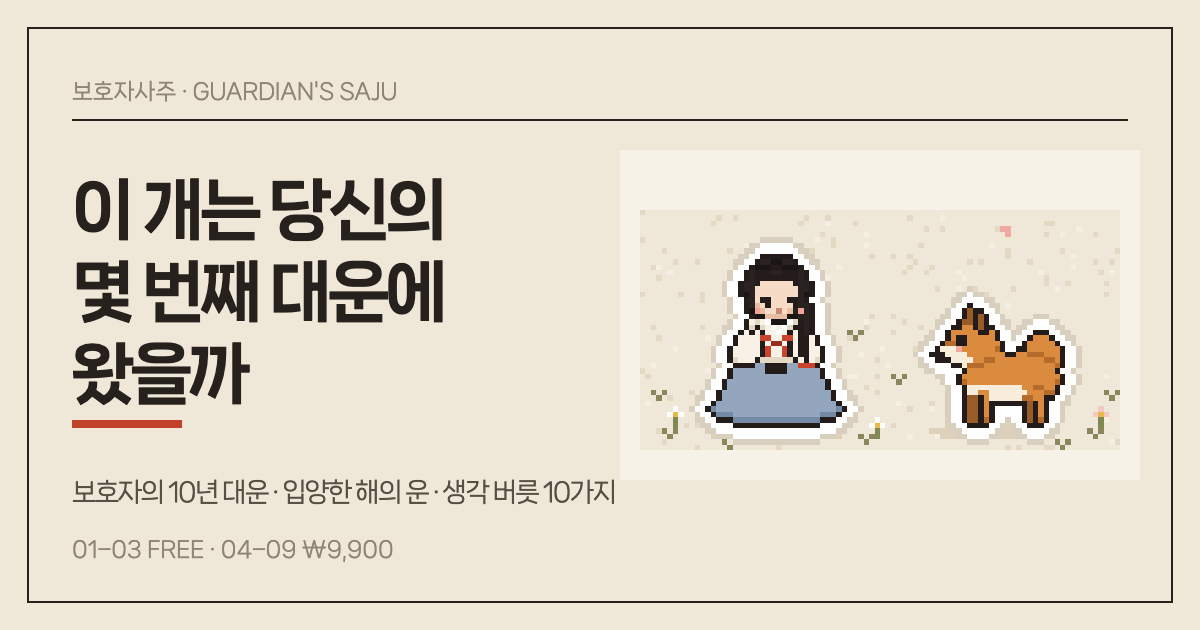
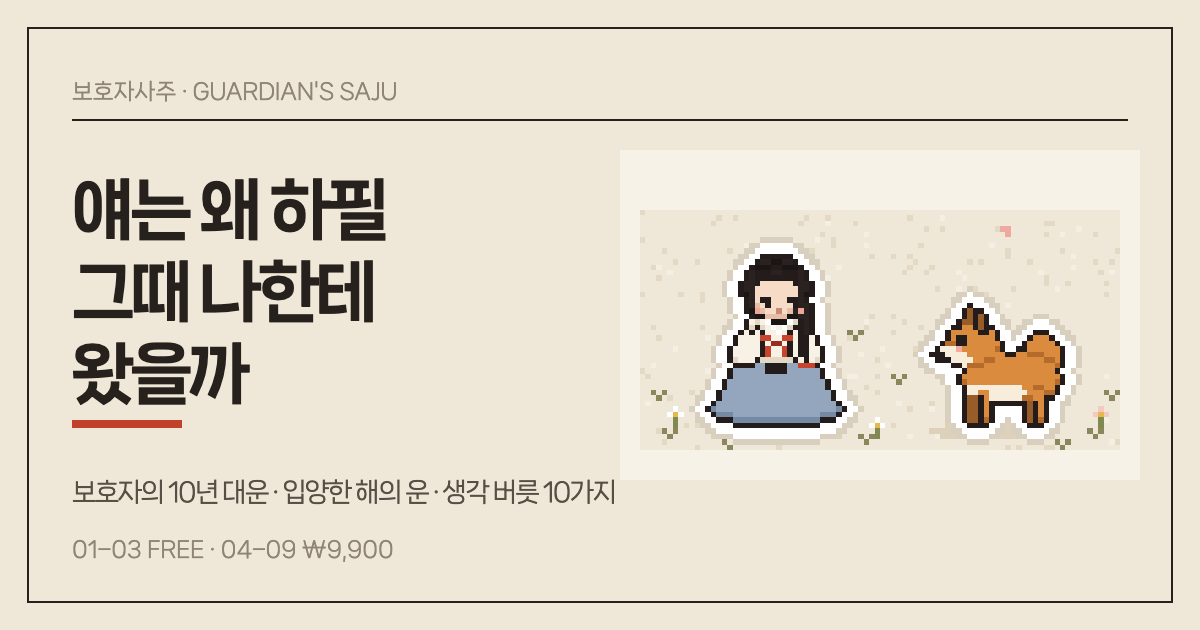
사이트 문구의 '개'를 '강아지'로

Changed region(s): [[0.0617, 0.2714, 0.37, 0.5127]]

diff --git a/src/content/distortions.ts b/src/content/distortions.ts
@@ -37,8 +37,8 @@ export const DIST: Record<DistId, DistContent> = {
     ],
     costs: ['시작을 계속 미룸', '갑자기 손절', '폭식 후 포기'],
     dog: [
-      '완벽한 산책 같은 건 없음. 10분만 나가도 개는 똑같이 신나 함.',
-      '개는 오늘 사고 친 걸 내일까지 안 들고 옴. 자고 일어나면 리셋.',
+      '완벽한 산책 같은 건 없음. 10분만 나가도 강아지는 똑같이 신나 함.',
+      '강아지는 오늘 사고 친 걸 내일까지 안 들고 옴. 자고 일어나면 리셋.',
     ],
     reframe: [
       { from: '망했다', to: '70%는 했음. 나머진 내일' },
@@ -63,12 +63,12 @@ export const DIST: Record<DistId, DistContent> = {
     scenes: [
       { at: '친구 · 단톡방', line: '약속 한 번 취소됨 → "나는 늘 우선순위 밖"' },
       { at: '회사 · 세 번째 직장', line: '"여기도 똑같네. 어딜 가도 똑같아"' },
-      { at: '산책 · 동네 공원', line: '다른 개가 한 번 짖음 → "우리 애는 원래 사회성이 없어"' },
+      { at: '산책 · 동네 공원', line: '다른 강아지가 한 번 짖음 → "우리 애는 원래 사회성이 없어"' },
     ],
     costs: ['해보기도 전에 포기', '먼저 선 긋기', '말한 대로 됨'],
     dog: [
-      '어제 자기 보고 짖은 애한테도 개는 오늘 또 냄새 맡으러 감.',
-      '매일 가는 산책길인데도 처음 온 것처럼 킁킁댐. 개한테 "맨날"은 없음.',
+      '어제 자기 보고 짖은 애한테도 강아지는 오늘 또 냄새 맡으러 감.',
+      '매일 가는 산책길인데도 처음 온 것처럼 킁킁댐. 강아지한테 "맨날"은 없음.',
     ],
     reframe: [
       { from: '난 맨날 이래', to: '이번에 그랬음. 저번까지 쳐도 두 번임' },
@@ -96,8 +96,8 @@ export const DIST: Record<DistId, DistContent> = {
     ],
     costs: ['새벽까지 곱씹기', '뭘 해도 뿌듯하지 않음', '무한 반복 재생'],
     dog: [
-      '개는 하루 중 제일 좋았던 순간만 기억하는 것 같음. 현관에서 맨날 그 얼굴로 반김.',
-      '비 쫄딱 맞은 산책도 개한테는 그냥 "산책 간 날".',
+      '강아지는 하루 중 제일 좋았던 순간만 기억하는 것 같음. 현관에서 맨날 그 얼굴로 반김.',
+      '비 쫄딱 맞은 산책도 강아지한테는 그냥 "산책 간 날".',
     ],
     reframe: [
       { from: '근데 이건 별로래', to: '좋다고 한 건 몇 개였더라. 세어 보기' },
@@ -125,8 +125,8 @@ export const DIST: Record<DistId, DistContent> = {
     ],
     costs: ['번아웃', '자존감 바닥', '기회 남한테 넘김'],
     dog: [
-      '개 털 윤기 나는 거 운 아님. 매일 밥 챙긴 사람이 있어서임.',
-      '개는 칭찬 들으면 그냥 꼬리 흔듦. "아 아니에요" 같은 거 안 함.',
+      '강아지 털 윤기 나는 거 운 아님. 매일 밥 챙긴 사람이 있어서임.',
+      '강아지는 칭찬 들으면 그냥 꼬리 흔듦. "아 아니에요" 같은 거 안 함.',
     ],
     reframe: [
       { from: '운빨이었어', to: '운도 있었고 내가 준비한 것도 있었음' },
@@ -150,12 +150,12 @@ export const DIST: Record<DistId, DistContent> = {
     scenes: [
       { at: '연애 · 밤 11시', line: '답장 2시간 없음 → 이별 대화 시뮬레이션 완료' },
       { at: '회사 · 주간 회의', line: '팀장 한숨 → "내 보고서 때문이다"' },
-      { at: '집 · 개가 밥을 남긴 날', line: '새벽 2시에 24시 병원 검색. 다음 날 멀쩡' },
+      { at: '집 · 강아지가 밥을 남긴 날', line: '새벽 2시에 24시 병원 검색. 다음 날 멀쩡' },
     ],
     costs: ['일 터지기 전에 이미 지침', '먼저 거리 둠', '끝까지 안 물어봄'],
     dog: [
-      '개도 내 표정은 읽음. 근데 결론은 안 냄. 일단 와서 냄새부터 맡음.',
-      '개는 내일 산책 못 갈까 봐 걱정 안 함. 그냥 오늘 문 앞에 서 있음.',
+      '강아지도 내 표정은 읽음. 근데 결론은 안 냄. 일단 와서 냄새부터 맡음.',
+      '강아지는 내일 산책 못 갈까 봐 걱정 안 함. 그냥 오늘 문 앞에 서 있음.',
     ],
     reframe: [
       { from: '화났구나', to: '바쁜가 보다. 물어보면 안다' },
@@ -179,12 +179,12 @@ export const DIST: Record<DistId, DistContent> = {
     scenes: [
       { at: '회사 · 메일 보낸 직후', line: '첨부파일 빠짐 → 재발송 3분, 자책 3일' },
       { at: '가족 · 명절', line: '친척 한마디가 한 해를 통째로 덮음' },
-      { at: '산책 · 공원', line: '개가 한 번 으르렁 → "우리 애 공격성 있는 거 아냐?"' },
+      { at: '산책 · 공원', line: '강아지가 한 번 으르렁 → "우리 애 공격성 있는 거 아냐?"' },
     ],
     costs: ['감정 소모', '사과를 너무 많이 함', '내가 한 일 지움'],
     dog: [
-      '개는 사고 쳐도 30초면 다음 일로 넘어감. 일의 크기를 정확히 앎.',
-      '개한테 오늘 제일 큰일은 간식 봉지 소리. 사실 대부분 일이 딱 그 정도 크기임.',
+      '강아지는 사고 쳐도 30초면 다음 일로 넘어감. 일의 크기를 정확히 앎.',
+      '강아지한테 오늘 제일 큰일은 간식 봉지 소리. 사실 대부분 일이 딱 그 정도 크기임.',
     ],
     reframe: [
       { from: '큰일 났다', to: '1년 뒤에도 기억날 일인가?' },
@@ -208,12 +208,12 @@ export const DIST: Record<DistId, DistContent> = {
     scenes: [
       { at: '연애 · 아무 일 없는 날', line: '이유 없이 "우리 끝날 것 같아"' },
       { at: '출근길 · 지하철', line: '가기 싫다 → "이 일은 나랑 안 맞아"' },
-      { at: '집 · 개 두고 출근', line: '미안한 마음 → "나는 나쁜 보호자야"' },
+      { at: '집 · 강아지 두고 출근', line: '미안한 마음 → "나는 나쁜 보호자야"' },
     ],
     costs: ['기분 따라 결정', '괜히 관계 흔듦', '죄책감 적립'],
     dog: [
-      '개도 비 오는 날은 시무룩함. 근데 "내 견생 망했다"까지는 안 감.',
-      '미안한 마음이랑 실제로 못 해준 건 다른 얘기. 개는 저녁 산책을 기억함.',
+      '강아지도 비 오는 날은 시무룩함. 근데 "내 견생 망했다"까지는 안 감.',
+      '미안한 마음이랑 실제로 못 해준 건 다른 얘기. 강아지는 저녁 산책을 기억함.',
     ],
     reframe: [
       { from: '불안하니까 위험해', to: '불안한 건 사실. 위험한지는 따로 확인' },
@@ -241,8 +241,8 @@ export const DIST: Record<DistId, DistContent> = {
     ],
     costs: ['쉬어도 쉰 것 같지 않음', '남한테 자꾸 실망', '나 자신 채찍질'],
     dog: [
-      '개한테 "해야 하는 산책" 같은 건 없음. "가고 싶은 산책"만 있음.',
-      '비 와서 산책 하루 빼먹어도 개와의 사이는 하나도 안 변함.',
+      '강아지한테 "해야 하는 산책" 같은 건 없음. "가고 싶은 산책"만 있음.',
+      '비 와서 산책 하루 빼먹어도 강아지와의 사이는 하나도 안 변함.',
     ],
     reframe: [
       { from: '해야 해', to: '하면 좋겠다' },
@@ -269,8 +269,8 @@ export const DIST: Record<DistId, DistContent> = {
     ],
     costs: ['손절', '자기혐오', '"사람 안 변해"'],
     dog: [
-      '개는 날 "오늘 늦게 온 사람"이 아니라 그냥 "온 사람"으로 반김.',
-      '배변 실수한 날도 나쁜 개 아님. 사람도 똑같음.',
+      '강아지는 날 "오늘 늦게 온 사람"이 아니라 그냥 "온 사람"으로 반김.',
+      '배변 실수한 날도 나쁜 강아지 아님. 사람도 똑같음.',
     ],
     reframe: [
       { from: '난 게으른 사람', to: '오늘은 쉬기로 한 것뿐' },
@@ -288,7 +288,7 @@ export const DIST: Record<DistId, DistContent> = {
       '친구가 힘든 건 내가 신경을 덜 써서야',
       '팀 프로젝트가 망한 건 결국 내 잘못',
       '어릴 때부터 부모님 싸우면 내가 뭘 잘못했나 생각했다',
-      '개가 아프면 "내가 뭘 잘못 먹였나"부터',
+      '강아지가 아프면 "내가 뭘 잘못 먹였나"부터',
       '누가 한숨 쉬면 내가 한 말을 되감기',
     ],
     scenes: [
@@ -298,8 +298,8 @@ export const DIST: Record<DistId, DistContent> = {
     ],
     costs: ['책임감 과다', '눈치 보느라 피곤', '혼자 다 수습'],
     dog: [
-      '개가 축 처진 날이 다 내 탓은 아님. 날씨 탓, 나이 탓, 그냥 그런 날도 있음.',
-      '개가 아프다 나은 건 내가 옆에 있어서임. 탓은 다 가져오고 공은 안 챙기면 계산이 안 맞음.',
+      '강아지가 축 처진 날이 다 내 탓은 아님. 날씨 탓, 나이 탓, 그냥 그런 날도 있음.',
+      '강아지가 아프다 나은 건 내가 옆에 있어서임. 탓은 다 가져오고 공은 안 챙기면 계산이 안 맞음.',
     ],
     reframe: [
       { from: '나 때문이야', to: '내 지분 몇 퍼센트였음? 숫자로' },

diff --git a/index.html b/index.html
@@ -3,9 +3,9 @@
 <head>
 <!--HEAD-->
 <title>보호자사주 · 얘는 왜 하필 그때 나한테 왔을까</title>
-<meta name="description" content="강아지 사주 말고 내 사주. 우리 개가 내 인생 몇 번째 대운에 왔는지, 그해 나한테 무슨 일이 있었는지 봐요.">
+<meta name="description" content="강아지 사주 말고 내 사주. 우리 강아지가 내 인생 몇 번째 대운에 왔는지, 그해 나한테 무슨 일이 있었는지 봐요.">
 <meta property="og:title" content="보호자사주 · 얘는 왜 하필 그때 나한테 왔을까">
-<meta property="og:description" content="내 대운 그래프 위에 우리 개 온 날 찍어 보기">
+<meta property="og:description" content="내 대운 그래프 위에 우리 강아지 온 날 찍어 보기">
 <meta property="og:image" content="%SITE%og.png">
 </head>
 <body>
@@ -15,7 +15,7 @@
     <div class="land-l">
       <div class="kicker mono"><span>대운 리포트</span><span>v1.0 · 2026.11</span><span>계산 기준 · 진태양시 −30분</span></div>
       <h1 class="land-t">얘는 왜 하필<br>그때 나한테 왔을까</h1>
-      <p class="land-p">강아지 사주 아니고 <b>내 사주</b>예요. 10년마다 바뀌는 대운 위에 우리 개 데려온 날을 찍어 보면, 그해 나한테 무슨 일이 있었는지가 보여요. 내 생각 버릇까지 같이.</p>
+      <p class="land-p">강아지 사주 아니고 <b>내 사주</b>예요. 10년마다 바뀌는 대운 위에 우리 강아지 데려온 날을 찍어 보면, 그해 나한테 무슨 일이 있었는지가 보여요. 내 생각 버릇까지 같이.</p>
       <div class="land-stat mono">
         <span><b>10</b>년 단위 대운</span><span><b>7</b>가지 입양 계기</span><span><b>10</b>가지 생각 버릇</span><span><b>10</b>년 운세 표</span>
       </div>
@@ -47,7 +47,7 @@
         </div>
       </fieldset>
       <fieldset>
-        <legend>우리 개</legend>
+        <legend>우리 강아지</legend>
         <label class="f"><span>이름</span><input name="dog" maxlength="10" placeholder="율이" required></label>
         <div class="f"><span>어떤 날짜로 볼까요?</span>
           <div class="seg"><label><input type="radio" name="dt" value="m" checked><span>우리 집 온 날</span></label><label><input type="radio" name="dt" value="b"><span>생일</span></label></div>
@@ -55,7 +55,7 @@
         </div>
         <div class="f"><span data-dlabel>우리 집 온 날</span>
           <div class="ymd"><input name="ay" inputmode="numeric" maxlength="4" placeholder="2021" aria-label="연도"><input name="am" inputmode="numeric" maxlength="2" placeholder="05" aria-label="월"><input name="ad" inputmode="numeric" maxlength="2" placeholder="일(모르면 비움)" aria-label="일"></div>
-          <small>날짜까지 알면 그날 일진이 우리 개 기둥이 돼요. 기억 안 나면 월까지만.</small>
+          <small>날짜까지 알면 그날 일진이 우리 강아지 기둥이 돼요. 기억 안 나면 월까지만.</small>
         </div>
         <div class="f two-sel">
           <label><span>견종</span><select name="breed" aria-label="견종"></select></label>
@@ -79,12 +79,12 @@
       <thead><tr><th>장</th><th>내용</th><th>형태</th><th></th></tr></thead>
       <tbody>
         <tr><td class="mono">01</td><td><b>내 사주 여덟 글자</b><br><span class="mute">나는 어떤 사람인지, 오행 뭐가 많고 뭐가 없는지</span></td><td>사주표 · 막대</td><td class="mono">무료</td></tr>
-        <tr><td class="mono">02</td><td><b>10년씩 끊어 본 인생</b><br><span class="mute">0살부터 90살까지 운 그래프. 우리 개 온 날 표시</span></td><td>선 그래프 · 표</td><td class="mono">무료</td></tr>
-        <tr><td class="mono">03</td><td><b>우리 개가 온 때</b><br><span class="mute">그해 나한테 무슨 일이 있었는지. 7가지 계기 중 어디였는지</span></td><td>체크리스트</td><td class="mono">무료</td></tr>
-        <tr><td class="mono">04</td><td><b>개가 오고 나서 바뀐 것</b><br><span class="mute">우리 개가 내 사주에서 뭘 채워 줬는지</span></td><td>전후 막대</td><td class="mono acc">유료</td></tr>
+        <tr><td class="mono">02</td><td><b>10년씩 끊어 본 인생</b><br><span class="mute">0살부터 90살까지 운 그래프. 우리 강아지 온 날 표시</span></td><td>선 그래프 · 표</td><td class="mono">무료</td></tr>
+        <tr><td class="mono">03</td><td><b>우리 강아지가 온 때</b><br><span class="mute">그해 나한테 무슨 일이 있었는지. 7가지 계기 중 어디였는지</span></td><td>체크리스트</td><td class="mono">무료</td></tr>
+        <tr><td class="mono">04</td><td><b>강아지가 오고 나서 바뀐 것</b><br><span class="mute">우리 강아지가 내 사주에서 뭘 채워 줬는지</span></td><td>전후 막대</td><td class="mono acc">유료</td></tr>
         <tr><td class="mono">05</td><td><b>내 생각 버릇 10가지</b><br><span class="mute">흑백논리, 과잉일반화, 개인화 같은 거. 상위 3개는 내 속마음이랑 실제 상황까지</span></td><td>분위 막대 · 카드</td><td class="mono acc">유료</td></tr>
         <tr><td class="mono">06</td><td><b>지금 10년, 다음 10년</b></td><td>카드</td><td class="mono acc">유료</td></tr>
-        <tr><td class="mono">07</td><td><b>우리 개랑 같이 갈 10년</b><br><span class="mute">해마다 운, 조심할 달, 좋은 달, 개랑 관련된 한 줄</span></td><td>표</td><td class="mono acc">유료</td></tr>
+        <tr><td class="mono">07</td><td><b>우리 강아지랑 같이 갈 10년</b><br><span class="mute">해마다 운, 조심할 달, 좋은 달, 강아지랑 관련된 한 줄</span></td><td>표</td><td class="mono acc">유료</td></tr>
         <tr><td class="mono">08</td><td><b>주고받는 것</b></td><td>단어 목록</td><td class="mono acc">유료</td></tr>
         <tr><td class="mono">09</td><td><b>인스타용 카드</b></td><td>이미지</td><td class="mono acc">유료</td></tr>
       </tbody>
@@ -92,7 +92,7 @@
   </section>
 
   <section class="sec">
-    <header class="sec-h"><span class="mono">계기</span><h2>개 데려오는 타이밍, 거의 이 중 하나</h2><small>03장에서 내 건 뭔지 나와요</small></header>
+    <header class="sec-h"><span class="mono">계기</span><h2>강아지 데려오는 타이밍, 거의 이 중 하나</h2><small>03장에서 내 건 뭔지 나와요</small></header>
     <div class="routes">
       <div><span class="mono">01</span><b>이사 · 독립</b><p>이사, 첫 자취, "여기 반려동물 된대"</p></div>
       <div><span class="mono">02</span><b>일 · 돈</b><p>취업, 이직, 재택. 병원비 계산이 딱 선 때</p></div>
@@ -100,7 +100,7 @@
       <div><span class="mono">04</span><b>멘탈</b><p>아침에 일어날 이유가 필요했던 때</p></div>
       <div><span class="mono">05</span><b>리셋</b><p>오래 미뤄둔 걸 드디어 질러 버린 해</p></div>
       <div><span class="mono">06</span><b>우연</b><p>보기만 하려고 했는데</p></div>
-      <div><span class="mono">07</span><b>살린 개</b><p>아픈 채로 와서 같이 나아진 개</p></div>
+      <div><span class="mono">07</span><b>살린 강아지</b><p>아픈 채로 와서 같이 나아진 강아지</p></div>
     </div>
   </section>
 

diff --git a/src/pages/report.ts b/src/pages/report.ts
@@ -11,14 +11,14 @@ import { breedName } from '../content/breeds';
 initCommon();
 
 const root = document.getElementById('report')!;
-// sample.html: 결제 후 화면을 보여주는 고정 예시 (가상의 보호자와 개)
+// sample.html: 결제 후 화면을 보여주는 고정 예시
 const SAMPLE = document.body.hasAttribute('data-sample');
 const SAMPLE_HASH = 'o=%EA%B9%80%EC%98%88%EB%B9%88&b=19930821&t=0920&c=s&g=f&n=%EA%B9%80%EC%9C%A8&f=poodle&fc=brown&a=202111&r=shop&s=&db=';
 const hash = SAMPLE ? SAMPLE_HASH : location.hash.slice(1);
 const inp = decodeInputs(hash);
 
 if (!inp) {
-  root.innerHTML = `<div class="page-head" style="margin-top:40px"><div class="kicker mono">입력 없음</div><h1>아직 입력한 게 없어요</h1><p>첫 화면에서 생일이랑 우리 개 온 날부터 넣어 주세요.</p></div><a class="btn" href="./#form">입력하러 가기</a>`;
+  root.innerHTML = `<div class="page-head" style="margin-top:40px"><div class="kicker mono">입력 없음</div><h1>아직 입력한 게 없어요</h1><p>첫 화면에서 생일이랑 우리 강아지 온 날부터 넣어 주세요.</p></div><a class="btn" href="./#form">입력하러 가기</a>`;
 } else {
   if (!SAMPLE) rememberReport(hash);
   const m = buildModel(inp);
@@ -34,7 +34,7 @@ if (!inp) {
     ['보호자', inp.owner || '-'],
     ['생일', `${b.y}.${b.m}.${b.d} ${b.calendar === 'lunar' ? (b.leap ? '음(윤)' : '음') : '양'}`],
     ['시각', b.hh === null ? '모름' : `${String(b.hh).padStart(2, '0')}:${String(b.mm ?? 0).padStart(2, '0')}`],
-    ['개', inp.dog],
+    ['강아지', inp.dog],
     ['견종', breedName(inp.breed, inp.color)],
     [inp.dateKind === 'birth' ? '생일' : '온 날', `${inp.adopt.y}.${inp.adopt.m}${inp.adopt.d ? '.' + inp.adopt.d : ''}`],
     ['경로', ROUTE_KO[inp.route] ?? '-'],
@@ -103,7 +103,7 @@ function wireShare(m: Model, paid: boolean) {
     const facts: [string, string][] = [
       ['그해', `${pillarHanja(m.adoption.pillars.year)}년`],
       ['그때 나는', ADOPT[m.adoption.primary].tag],
-      ['우리 개 기둥', pillarHanja(m.dogPillar)],
+      ['우리 강아지 기둥', pillarHanja(m.dogPillar)],
       ['채워준 기운', `${EL_KO[m.filled]} ${EL_HANJA[m.filled]}`],
     ];
     const cw = (W - P * 2) / 4;

diff --git a/src/content/saju.ts b/src/content/saju.ts
@@ -4,8 +4,8 @@ export interface StemContent { image: string; words: string[]; outside: string; 
 // 일간 10
 export const STEM_TEXT: StemContent[] = [
   { image: '큰 나무', words: ['곧음', '앞장', '고집', '시작', '자존심', '책임감'], outside: '듬직함', inside: '생각 많음', asOwner: '앞장서 걷는 보호자' },
-  { image: '덩굴 · 들꽃', words: ['유연함', '끈기', '눈치', '생활력', '섬세함', '버팀'], outside: '부드러움', inside: '계산 빠름', asOwner: '개 속도에 맞춰 걷는 보호자' },
-  { image: '한낮의 해', words: ['밝음', '솔직함', '오지랖', '무대', '열정', '기분파'], outside: '분위기 메이커', inside: '쉽게 지침', asOwner: '동네 개들이 다 아는 보호자' },
+  { image: '덩굴 · 들꽃', words: ['유연함', '끈기', '눈치', '생활력', '섬세함', '버팀'], outside: '부드러움', inside: '계산 빠름', asOwner: '강아지 속도에 맞춰 걷는 보호자' },
+  { image: '한낮의 해', words: ['밝음', '솔직함', '오지랖', '무대', '열정', '기분파'], outside: '분위기 메이커', inside: '쉽게 지침', asOwner: '동네 강아지들이 다 아는 보호자' },
   { image: '촛불 · 등불', words: ['섬세함', '집중', '온기', '예민함', '헌신', '속앓이'], outside: '다정함', inside: '불안', asOwner: '자다가도 숨소리 확인하는 보호자' },
   { image: '큰 산', words: ['묵직함', '신뢰', '고집', '느림', '포용', '버팀'], outside: '어른스러움', inside: '외로움', asOwner: '말없이 기다려 주는 보호자' },
   { image: '기름진 밭', words: ['살림', '실속', '배려', '걱정', '현실감', '알뜰함'], outside: '챙겨주는 사람', inside: '걱정 많음', asOwner: '간식 성분표 정독하는 보호자' },

diff --git a/src/report/render.ts b/src/report/render.ts
@@ -351,7 +351,7 @@ function distCard(m: Model, id: keyof typeof DIST, rank: number, score: number, 
     </div>
     <h4>실제로는 이런 식</h4>
     ${c.scenes.map((s) => `<div class="scene"><span class="mono">${s.at}</span>${s.line}</div>`).join('')}
-    <div class="note-box dogbox"><h3>${esc(josa(dog, '이', '가'))} 끊어주는 순간</h3>${c.dog.map((d) => `<p>${d.replace(/개는|개가|개한테|개와|개도|개 털/g, (w) => esc(dog) + (w === '개는' ? (hasBatchim(dog) ? '은' : '는') : w === '개가' ? (hasBatchim(dog) ? '이' : '가') : w === '개한테' ? '한테' : w === '개도' ? '도' : w === '개 털' ? ' 털' : (hasBatchim(dog) ? '과' : '와')))}</p>`).join('')}</div>
+    <div class="note-box dogbox"><h3>${esc(josa(dog, '이', '가'))} 끊어주는 순간</h3>${c.dog.map((d) => `<p>${d.replace(/강아지는|강아지가|강아지한테|강아지와|강아지도|강아지 털/g, (w) => esc(dog) + (w === '강아지는' ? (hasBatchim(dog) ? '은' : '는') : w === '강아지가' ? (hasBatchim(dog) ? '이' : '가') : w === '강아지한테' ? '한테' : w === '강아지도' ? '도' : w === '강아지 털' ? ' 털' : (hasBatchim(dog) ? '과' : '와')))}</p>`).join('')}</div>
     <div class="talk"><div class="hd">원래 하던 말</div><div class="hd">이렇게 바꿔 말하면</div>${c.reframe.map((r) => `<div>${r.from}</div><div>${r.to}</div>`).join('')}</div>
   </article>`;
 }

diff --git a/src/content/adoption.ts b/src/content/adoption.ts
@@ -5,7 +5,7 @@ export interface BranchContent {
   title: string;
   checks: string[];
   quotes: string[];
-  after: string;   // 개가 온 뒤 바뀐 것 (단어 묶음)
+  after: string;   // 강아지가 온 뒤 바뀐 것 (단어 묶음)
 }
 
 export const ADOPT: Record<BranchId, BranchContent> = {
@@ -52,8 +52,8 @@ export const ADOPT: Record<BranchId, BranchContent> = {
     after: '계획에 없던 일 → 이유가 된 일',
   },
   rescue: {
-    tag: '살린 개',
-    title: '살려고 나한테 온 개',
+    tag: '살린 강아지',
+    title: '살려고 나한테 온 강아지',
     checks: ['처음 왔을 때 상태가 안 좋았다', '병원을 엄청 다녔다', '사료랑 간식을 다 바꿨다', '좋아지는 걸 매일 눈으로 봤다', '"나 아니었으면 어쩔 뻔했어" 생각한 적 있다'],
     quotes: ['얘 살려고 나한테 왔구나', '털 다시 올라오는 거 보고 울었음', '나 아니었으면 진짜 어떻게 됐을까'],
     after: '내가 살린 줄 알았는데 → 같이 살아난 거',

diff --git a/scripts/og.html b/scripts/og.html
@@ -15,7 +15,7 @@ x.drawImage(img, 640, 210, 480, 240);
 x.fillStyle = '#8f8475'; x.font = '400 22px NanumSquareNeo'; x.fillText("보호자사주 · GUARDIAN'S SAJU", 72, 98);
 x.beginPath(); x.moveTo(72, 120); x.lineTo(1128, 120); x.stroke();
 x.fillStyle = '#26211c'; x.font = '800 66px NanumSquareNeo'; x.letterSpacing = '-4.6px';
-['이 개는 당신의', '몇 번째 대운에', '왔을까'].forEach((t, i) => x.fillText(t, 72, 230 + i * 82));
+['얘는 왜 하필', '그때 나한테', '왔을까'].forEach((t, i) => x.fillText(t, 72, 230 + i * 82));
 x.fillStyle = '#c2412b'; x.fillRect(72, 420, 110, 8);
 x.fillStyle = '#574e44'; x.font = '400 26px NanumSquareNeo'; x.letterSpacing = '-1.8px';
 x.fillText('보호자의 10년 대운 · 입양한 해의 운 · 생각 버릇 10가지', 72, 500);

diff --git a/src/pages/index.ts b/src/pages/index.ts
@@ -79,7 +79,7 @@ f.addEventListener('submit', (e) => {
     try { Lunar.fromYmd(by, cal === 'L' ? -bm : bm, bd).getSolar(); } catch { return fail(cal === 'L' ? '그해엔 그 달 윤달이 없어요.' : '음력 날짜가 이상해요.', 'bd'); }
   }
   const dog = s('dog');
-  if (!dog) return fail('우리 개 이름은 꼭 넣어 주세요.', 'dog');
+  if (!dog) return fail('우리 강아지 이름은 꼭 넣어 주세요.', 'dog');
   const ay = n('ay'), am = n('am'), adRaw = s('ad'), ad = adRaw ? Number(adRaw) : null;
   if (!(ay >= by && ay <= now.getFullYear())) return fail(birth ? '생일 연도가 이상해요.' : '데려온 연도가 이상해요.', 'ay');
   if (!(am >= 1 && am <= 12)) return fail(birth ? '생일 월이 이상해요.' : '데려온 월이 이상해요.', 'am');

diff --git a/report.html b/report.html
@@ -4,7 +4,7 @@
 <!--HEAD-->
 <title>보호자사주 리포트</title>
 <meta name="robots" content="noindex">
-<meta property="og:title" content="보호자사주 · 이 개는 몇 번째 대운에 왔나">
+<meta property="og:title" content="보호자사주 · 얘는 왜 하필 그때 나한테 왔을까">
 <meta property="og:image" content="%SITE%og.png">
 </head>
 <body>
